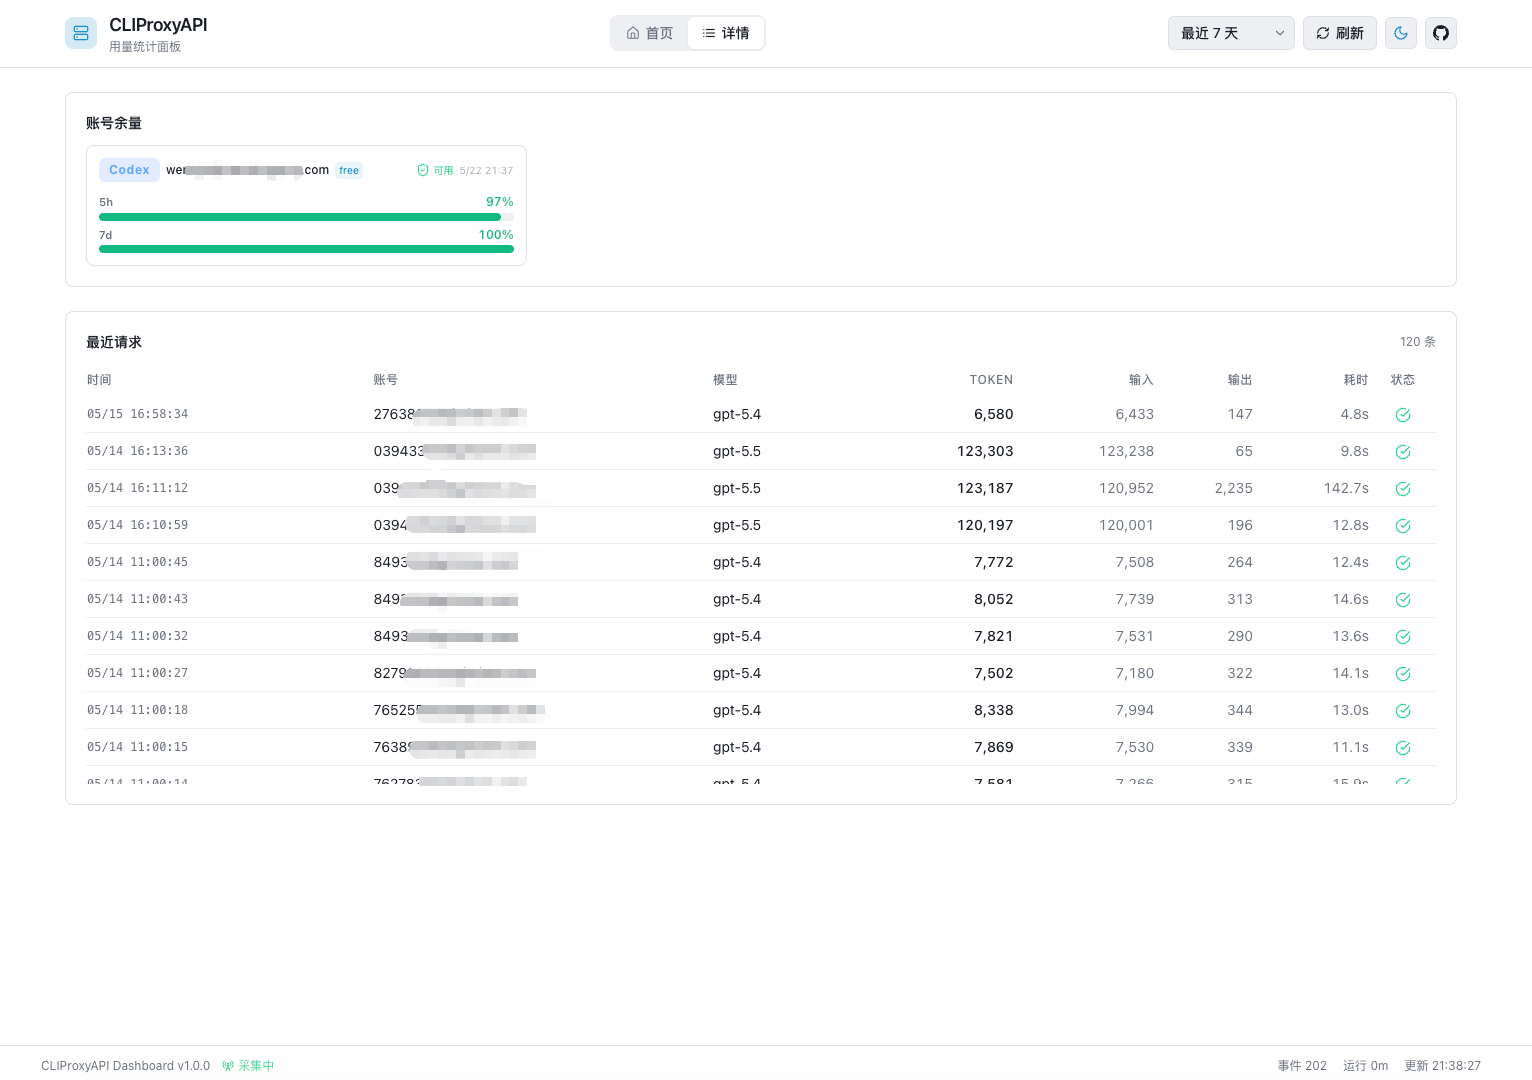
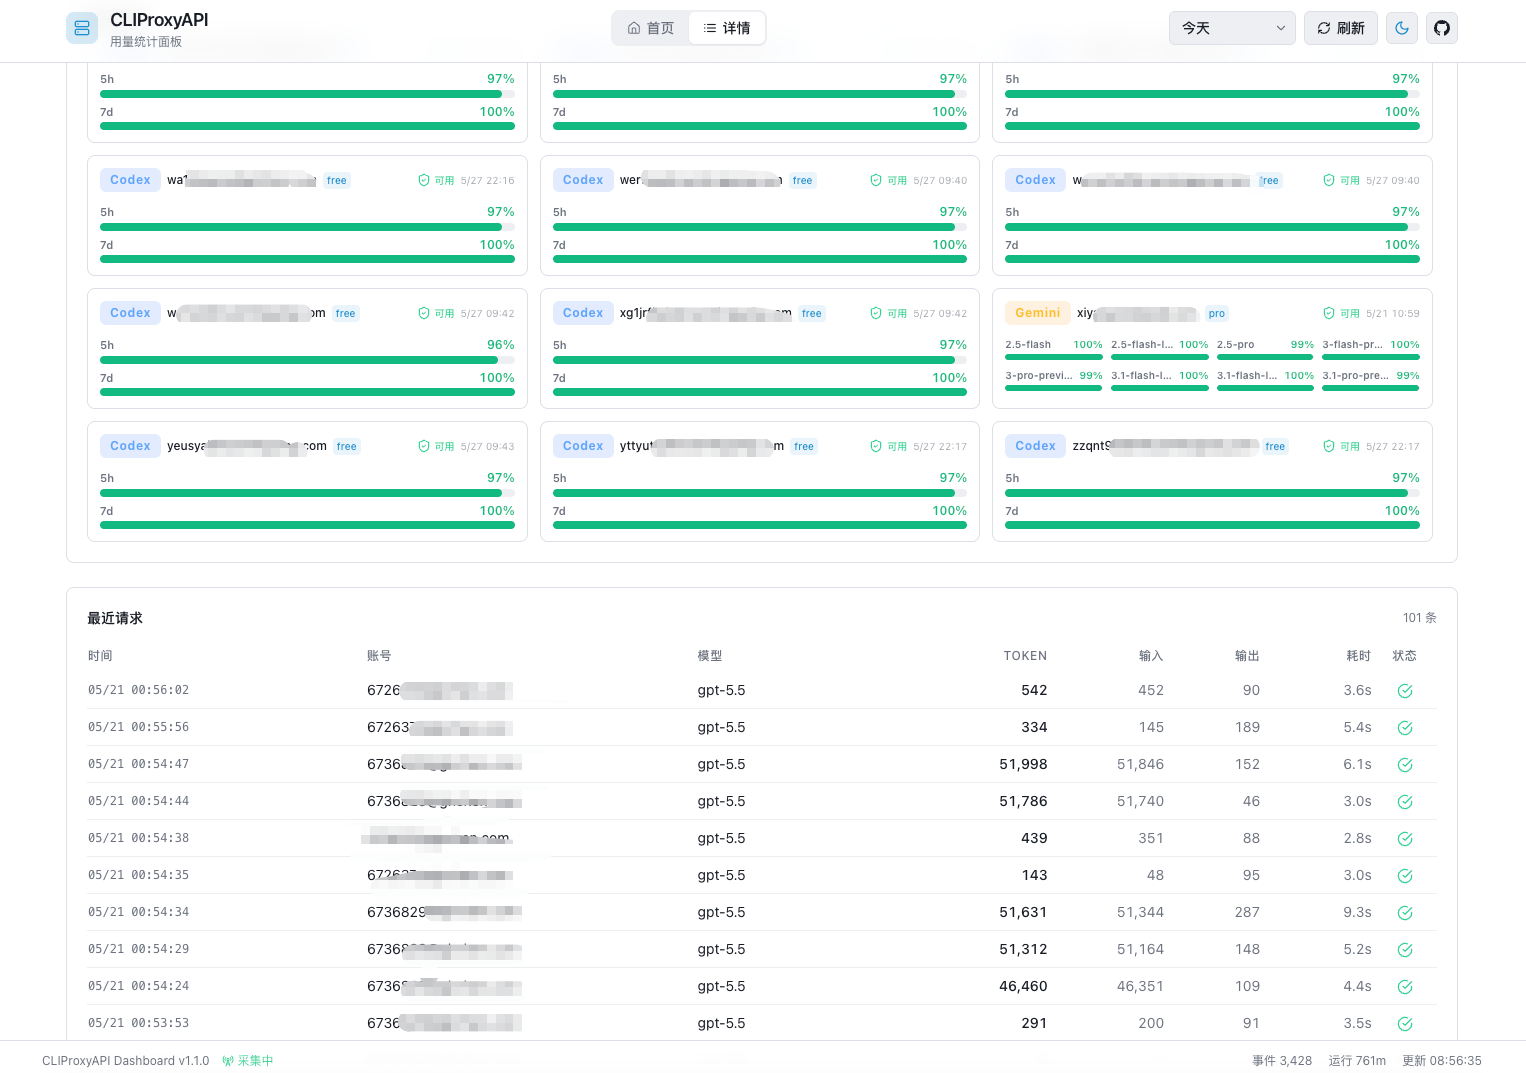
IN# 优化 项目说明，更新截图

diff --git a/README.md b/README.md
@@ -1,22 +1,37 @@
 # CLIProxyAPI Dashboard
 
-CLIProxyAPI 用量统计与监控面板。本项目完全通过 DeepSeek TUI + DeepSeek-V4-Pro 开发。通过 CLIProxyAPI Management API 实时采集每次请求的用量数据，存储到本地 SQLite，并提供可视化仪表盘。
+[![Next.js](https://img.shields.io/badge/Next.js-14-black)](https://nextjs.org/)
+[![SQLite](https://img.shields.io/badge/SQLite-local--first-003B57)](https://www.sqlite.org/)
+[![Docker](https://img.shields.io/badge/Docker-ready-2496ED)](https://www.docker.com/)
+[![License: MIT](https://img.shields.io/badge/license-MIT-green)](#许可证)
+
+[简体中文](README.md) | [English](README_EN.md)
+
+CLIProxyAPI 用量统计与监控面板。本项目完全通过 DeepSeek TUI + DeepSeek-V4-Pro 开发。通过 CLIProxyAPI Management API 实时采集每次请求的用量数据，存储到本地 SQLite，并提供可视化仪表盘、请求明细和多 Provider 账号余量展示。
+
+## 最近优化
+
+- **Gemini CLI 多模型余量** — 支持通过 Gemini CLI OAuth 查询 Code Assist quota buckets，按模型展示独立进度条、百分比、重置时间和套餐标签。
+- **更完整的余量面板** — Codex 显示 5h/7d 双进度条；Gemini 支持多模型 bucket；Kimi、Claude 等 Provider 使用统一进度条样式。
+- **请求明细新增 Key 列** — 最近请求表展示脱敏后的 API Key，便于定位消耗来源，同时避免明文暴露。
+- **图表卡片高度优化** — Token 趋势和模型分布卡片在切换时间范围时保持稳定高度，避免 24h/7d 等视图切换导致布局跳动。
+- **统计范围扩展** — 支持今天、最近 24 小时、最近 7 天、最近 15 天、最近 30 天视图。
 
 ## 功能
 
-- **首页 / 详情 Tab** — 顶部双 Tab 切换，首页展示概览和图表，详情展示消耗明细和余量
-- **KPI 总览** — 请求数（含成功/失败明细）、总 Token、输入/输出/推理 Token、缓存 Token
-- **时间趋势** — 按小时的 Token 消耗面积图
-- **模型分布** — 自定义渐变水平条形图，framer-motion 动画，Top 10 模型全量占比
-- **账号消耗** — 按账号/来源分组的详细统计表（详情 Tab）
-- **Key 消耗** — 按 API Key 分组的 Token 消耗明细（详情 Tab）
-- **账号余量** — Codex 显示 5h/7d 双进度条；Kimi/Gemini/Claude 显示统一余量进度条；provider 彩色徽章标识（详情 Tab）
-- **请求明细** — 最近每次请求的 Token、耗时、模型信息
-- **时间范围** — 支持今天、1h、5h、24h、7d 五种视图切换
-- **亮色/暗色模式** — 一键切换，偏好自动持久化到 localStorage
-- **登录认证** — 可选访问密钥保护，输入正确密钥后才能查看数据
-- **实时刷新** — 每 10 秒自动拉取最新数据，手动刷新按钮
-- **采集状态** — Footer 显示采集器运行状态、事件数、运行时长
+- **首页 / 详情 Tab** — 顶部双 Tab 切换，首页展示概览和图表，详情展示消耗明细和账号余量。
+- **KPI 总览** — 请求数（含成功/失败明细）、总 Token、输入/输出/推理 Token、缓存 Token。
+- **时间趋势** — 按小时或按日期展示 Token 消耗面积图。
+- **模型分布** — 自定义渐变水平条形图，framer-motion 动画，Top 10 模型全量占比。
+- **账号消耗** — 按账号/来源分组的详细统计表（详情 Tab）。
+- **Key 消耗** — 按 API Key 分组的 Token 消耗明细（详情 Tab）。
+- **账号余量** — 支持 Codex、Gemini、Kimi、Claude 等 Provider 的账号余量快照与进度条展示（详情 Tab）。
+- **请求明细** — 最近每次请求的时间、脱敏 Key、账号、模型、Token、耗时和状态。
+- **时间范围** — 支持今天、24h、7d、15d、30d 五种视图切换。
+- **亮色 / 暗色模式** — 一键切换，偏好自动持久化到 localStorage。
+- **登录认证** — 可选访问密钥保护，输入正确密钥后才能查看数据。
+- **实时刷新** — 每 10 秒自动拉取最新数据，支持手动刷新。
+- **采集状态** — Footer 显示采集器运行状态、事件数、运行时长。
 
 ## 截图
 
@@ -56,7 +71,7 @@ cp .env.example .env
 npm run dev
 ```
 
-浏览器访问 `http://localhost:3000`
+浏览器访问 `http://localhost:3000`。
 
 ### Docker 部署
 
@@ -72,8 +87,9 @@ docker-compose up -d
 docker-compose logs -f
 ```
 
+也可以直接使用镜像运行：
+
 ```bash
-# docker run
 docker run -d \
   --name cliproxyapi-dashboard \
   --restart unless-stopped \
@@ -90,10 +106,9 @@ docker run -d \
   -v "$(pwd)/data:/app/data" \
   -v "$(pwd)/auths:/app/auths:ro" \
   xiyangai/cliproxyapi-dashboard:latest
-  
 ```
 
-浏览器访问 `http://localhost:3000`
+浏览器访问 `http://localhost:3000`。
 
 ## 环境变量
 
@@ -104,10 +119,10 @@ docker run -d \
 | `CLIPROXY_PORT` | `8317` | 端口（仅 `CLIPROXY_URL` 未设置时生效） |
 | `MANAGEMENT_KEY` | (必填) | Management API 明文密钥 |
 | `ACCESS_KEY` | — | Dashboard 登录密钥（不设置则跳过认证） |
-| `POLL_INTERVAL_SECONDS` | `2` | 采集间隔（秒） |
-| `QUOTA_REFRESH_SECONDS` | `300` | 余量刷新间隔（秒） |
+| `POLL_INTERVAL_SECONDS` | `2` | 用量采集间隔（秒） |
+| `QUOTA_REFRESH_SECONDS` | `300` | 账号余量刷新间隔（秒） |
 | `DB_PATH` | `./data/usage.sqlite` | SQLite 数据库路径 |
-| `AUTH_DIR` | — | Codex OAuth 文件目录（可选，用于余量查询） |
+| `AUTH_DIR` | `./auths` | Provider 认证文件目录（用于 Codex/Gemini/Kimi/Claude 等余量查询） |
 | `SOCKS5_PROXY_HOST` | — | 余量查询代理地址 |
 | `SOCKS5_PROXY_PORT` | `0` | 余量查询代理端口（0 = 禁用） |
 | `SOCKS5_PROXY_USERNAME` | — | 代理用户名（可选，与密码同时配置） |
@@ -126,26 +141,26 @@ ACCESS_KEY=your-secret-key
 
 ## 数据存储
 
-所有用量数据保存在本地 SQLite 数据库中（WAL 模式），不上传到任何第三方服务。数据库包含两张表：
+所有用量数据保存在本地 SQLite 数据库中（WAL 模式），不上传到任何第三方服务。数据库包含两张核心表：
 
-- `usage_events` — 每次 API 请求的用量事件（Token 数、模型、账号、API Key Hash、耗时等）
-- `quota_snapshots` — ChatGPT/Codex 账号的配额快照（可选）
+- `usage_events` — 每次 API 请求的用量事件（Token 数、模型、账号、脱敏 API Key、API Key Hash、耗时等）。
+- `quota_snapshots` — Provider 账号余量快照（Codex、Gemini、Kimi、Claude 等，可选）。
 
 ## 架构
 
-```
+```text
 CLIProxyAPI :8317  ←→  Dashboard (Next.js)
   │                        │
-  │ GET /usage-queue       │ 采集器 (每 N 秒轮询)
+  │ GET /usage-queue       │ 采集器（每 N 秒轮询）
   │                        │
   │                        ↓
   │                    SQLite
   │                        │
   │                        ↓
-  │                 API Routes (+ Auth 中间件)
+  │                 API Routes（+ Auth 中间件）
   │                        │
   │                        ↓
-  └────────────────→  React 面板 (亮/暗主题)
+  └────────────────→  React 面板（亮 / 暗主题）
 ```
 
 ## API 端点
@@ -153,20 +168,20 @@ CLIProxyAPI :8317  ←→  Dashboard (Next.js)
 | 端点 | 认证 | 说明 |
 |------|------|------|
 | `GET /api/health` | 需认证 | 健康检查、采集状态 |
-| `GET /api/summary?range=today` | 需认证 | 用量汇总（含按账号/模型/Key/小时分组） |
-| `GET /api/requests?limit=100` | 需认证 | 最近请求明细 |
+| `GET /api/summary?range=today` | 需认证 | 用量汇总（含按账号/模型/Key/时间分组） |
+| `GET /api/requests?limit=100&range=today` | 需认证 | 最近请求明细 |
 | `GET /api/quota` | 需认证 | 账号余量快照 |
 | `POST /api/auth` | 无需认证 | 登录验证 |
 | `GET /api/auth` | 无需认证 | 检查登录状态 |
 
 ## 技术栈
 
-- **框架**: Next.js 14 (App Router)
-- **图表**: Recharts (面积图) + framer-motion (自定义条形图)
-- **数据库**: better-sqlite3 (WAL 模式)
-- **样式**: Tailwind CSS + CSS 变量主题系统
-- **图标**: Lucide React
-- **认证**: httpOnly Cookie + Edge Middleware
+- **框架**：Next.js 14（App Router）
+- **图表**：Recharts（面积图）+ framer-motion（自定义条形图）
+- **数据库**：better-sqlite3（WAL 模式）
+- **样式**：Tailwind CSS + CSS 变量主题系统
+- **图标**：Lucide React
+- **认证**：httpOnly Cookie + Edge Middleware
 
 ## 许可证
 

diff --git a/README_EN.md b/README_EN.md
@@ -1,22 +1,43 @@
 # CLIProxyAPI Dashboard
 
-A local-first usage statistics and monitoring dashboard for CLIProxyAPI. It collects per-request token usage from the CLIProxyAPI Management API, stores data in SQLite, and provides a real-time visualization panel.
+[![Next.js](https://img.shields.io/badge/Next.js-14-black)](https://nextjs.org/)
+[![SQLite](https://img.shields.io/badge/SQLite-local--first-003B57)](https://www.sqlite.org/)
+[![Docker](https://img.shields.io/badge/Docker-ready-2496ED)](https://www.docker.com/)
+[![License: MIT](https://img.shields.io/badge/license-MIT-green)](#license)
+
+[简体中文](README.md) | [English](README_EN.md)
+
+A local-first usage statistics and monitoring dashboard for CLIProxyAPI. It collects per-request token usage from the CLIProxyAPI Management API, stores data in SQLite, and provides a real-time dashboard with visual charts, request details, and multi-provider quota monitoring.
+
+## Recent Updates
+
+- **Gemini CLI multi-model quotas** — Supports Gemini CLI OAuth and reads Code Assist quota buckets, displaying per-model progress bars, percentages, reset times, and paid-tier labels.
+- **Richer quota panel** — Codex shows 5h/7d dual progress bars; Gemini can show multiple model buckets; Kimi, Claude, and other providers use the unified quota bar style.
+- **Masked API key in request feed** — Recent requests now include a masked Key column, making it easier to trace usage sources without exposing plaintext keys.
+- **Stable chart card heights** — Token trend and model distribution cards keep a stable minimum height when switching ranges, avoiding layout jumps between 24h/7d-style views.
+- **Extended statistics ranges** — Supports Today, last 24 hours, last 7 days, last 15 days, and last 30 days.
 
 ## Features
 
-- **Home / Details Tabs** — Dual-tab navigation: Home for overview & charts, Details for consumption tables & quotas
-- **KPI Overview** — Request count (with success/failure breakdown), total tokens, input/output/reasoning/cached tokens
-- **Hourly Trends** — Token consumption area chart grouped by hour
-- **Model Distribution** — Custom gradient horizontal bar chart with framer-motion animations, Top 10 models, global percentage
-- **Account Consumption** — Detailed breakdown by account/source (Details tab)
-- **API Key Consumption** — Token usage grouped by individual API key (Details tab)
-- **Quota Status** — Codex: 5h/7d dual progress bars; Kimi/Gemini/Claude: single quota bar; color-coded provider badges (Details tab)
-- **Request Feed** — Recent requests with token counts, latency, and model info
-- **Time Range** — Toggle between Today, 1h, 5h, 24h, and 7d views
-- **Light / Dark Mode** — One-click theme toggle, preference persisted in localStorage
-- **Authentication** — Optional access key protection with login dialog
-- **Auto Refresh** — Data refreshes every 10 seconds, with a manual refresh button
-- **Collector Status** — Footer shows collector running state, event count, and uptime
+- **Home / Details Tabs** — Dual-tab navigation: Home for overview and charts, Details for consumption tables and quotas.
+- **KPI Overview** — Request count (with success/failure breakdown), total tokens, input/output/reasoning/cached tokens.
+- **Token Trends** — Area chart grouped by hour or day depending on the selected range.
+- **Model Distribution** — Custom gradient horizontal bar chart with framer-motion animations, Top 10 models, and global percentage.
+- **Account Consumption** — Detailed breakdown by account/source (Details tab).
+- **API Key Consumption** — Token usage grouped by individual API key (Details tab).
+- **Quota Status** — Account quota snapshots and progress bars for Codex, Gemini, Kimi, Claude, and other providers (Details tab).
+- **Request Feed** — Recent requests with time, masked key, account, model, token counts, latency, and status.
+- **Time Range** — Toggle between Today, 24h, 7d, 15d, and 30d views.
+- **Light / Dark Mode** — One-click theme toggle, preference persisted in localStorage.
+- **Authentication** — Optional access key protection with login dialog.
+- **Auto Refresh** — Data refreshes every 10 seconds, with a manual refresh button.
+- **Collector Status** — Footer shows collector running state, event count, and uptime.
+
+## Screenshots
+
+![img1](./images/img1.png)
+
+![img2](./images/img2.png)
 
 ## Quick Start
 
@@ -66,8 +87,9 @@ docker-compose up -d
 docker-compose logs -f
 ```
 
+You can also run the image directly:
+
 ```bash
-# docker run
 docker run -d \
   --name cliproxyapi-dashboard \
   --restart unless-stopped \
@@ -84,10 +106,9 @@ docker run -d \
   -v "$(pwd)/data:/app/data" \
   -v "$(pwd)/auths:/app/auths:ro" \
   xiyangai/cliproxyapi-dashboard:latest
-  
 ```
 
-Open `http://localhost:8320` in your browser.
+Open `http://localhost:3000` in your browser.
 
 ## Environment Variables
 
@@ -99,9 +120,9 @@ Open `http://localhost:8320` in your browser.
 | `MANAGEMENT_KEY` | (required) | Management API plaintext key |
 | `ACCESS_KEY` | — | Dashboard login key (auth disabled when empty) |
 | `POLL_INTERVAL_SECONDS` | `2` | Data collection interval (seconds) |
-| `QUOTA_REFRESH_SECONDS` | `300` | Quota refresh interval (seconds) |
+| `QUOTA_REFRESH_SECONDS` | `300` | Account quota refresh interval (seconds) |
 | `DB_PATH` | `./data/usage.sqlite` | SQLite database path |
-| `AUTH_DIR` | — | Codex OAuth directory (optional, for quota queries) |
+| `AUTH_DIR` | `./auths` | Provider auth file directory for Codex/Gemini/Kimi/Claude quota queries |
 | `SOCKS5_PROXY_HOST` | — | SOCKS5 proxy host for quota fetching |
 | `SOCKS5_PROXY_PORT` | `0` | SOCKS5 proxy port (0 = disabled) |
 | `SOCKS5_PROXY_USERNAME` | — | SOCKS5 proxy username (optional; must be set together with password) |
@@ -111,7 +132,7 @@ Open `http://localhost:8320` in your browser.
 
 ## Authentication
 
-When `ACCESS_KEY` is configured, the dashboard requires a login key before displaying any data. On successful authentication, an httpOnly cookie is stored in the browser (valid for 30 days), so re-authentication is not needed on subsequent visits. Leave `ACCESS_KEY` empty to skip authentication entirely.
+When `ACCESS_KEY` is configured, the dashboard requires a login key before displaying any data. On successful authentication, an httpOnly cookie is stored in the browser for 30 days, so re-authentication is not needed on subsequent visits. Leave `ACCESS_KEY` empty to skip authentication entirely.
 
 ```bash
 # .env
@@ -120,14 +141,14 @@ ACCESS_KEY=your-secret-key
 
 ## Data Storage
 
-All usage data is stored locally in SQLite (WAL mode) — nothing is uploaded to any third-party service. The database contains two tables:
+All usage data is stored locally in SQLite (WAL mode) — nothing is uploaded to any third-party service. The database contains two core tables:
 
-- `usage_events` — Per-request usage events (token counts, model, account, API key hash, latency, etc.)
-- `quota_snapshots` — ChatGPT/Codex account quota snapshots (optional)
+- `usage_events` — Per-request usage events (token counts, model, account, masked API key, API key hash, latency, etc.).
+- `quota_snapshots` — Provider account quota snapshots for Codex, Gemini, Kimi, Claude, and others (optional).
 
 ## Architecture
 
-```
+```text
 CLIProxyAPI :8317  ←→  Dashboard (Next.js)
   │                        │
   │ GET /usage-queue       │ Collector (polls every N seconds)
@@ -146,9 +167,9 @@ CLIProxyAPI :8317  ←→  Dashboard (Next.js)
 
 | Endpoint | Auth Required | Description |
 |------|------|------|
-| `GET /api/health` | Yes | Health check & collector status |
-| `GET /api/summary?range=today` | Yes | Usage summary (grouped by account/model/key/hour) |
-| `GET /api/requests?limit=100` | Yes | Recent request details |
+| `GET /api/health` | Yes | Health check and collector status |
+| `GET /api/summary?range=today` | Yes | Usage summary grouped by account/model/key/time |
+| `GET /api/requests?limit=100&range=today` | Yes | Recent request details |
 | `GET /api/quota` | Yes | Account quota snapshots |
 | `POST /api/auth` | No | Login verification |
 | `GET /api/auth` | No | Check authentication status |